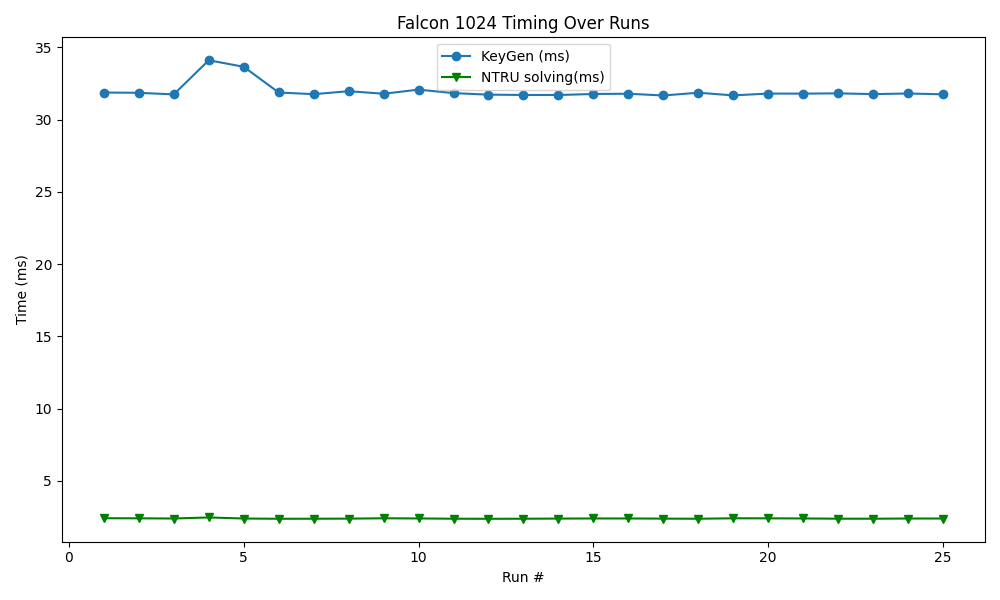
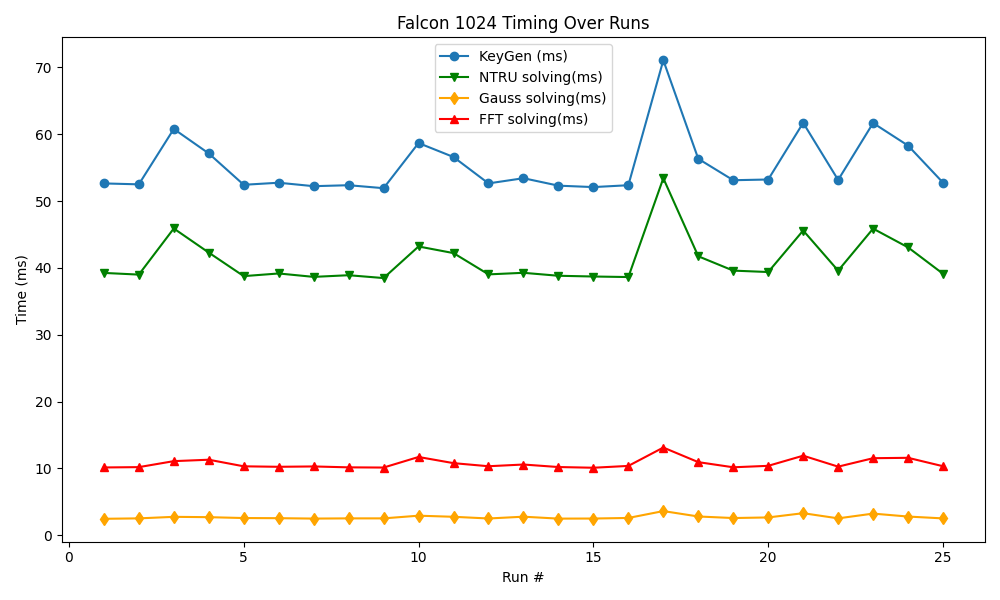
updated measurements of Falcon and KeyGen operations

diff --git a/Falcon/generate_graph.py b/Falcon/generate_graph.py
@@ -5,12 +5,12 @@ import datetime
 import pandas as pd
 import matplotlib.pyplot as plt
 
-if len(sys.argv) != 7:
-    print("Usage: python3 generate_graph.py <mode> <keygen_ms> <sign_ms> <verify_ms> <rejections> <ntru_timing>")
+if len(sys.argv) != 9:
+    print("Usage: python3 generate_graph.py <mode> <keygen_ms> <sign_ms> <verify_ms> <rejections> <ntru_timing> <gauss_timing> <fft_timing>")
     sys.exit(1)
 
 # Read command-line arguments
-mode, keygen, sign, verify, rejections,  ntru_timing = sys.argv[1:7]
+mode, keygen, sign, verify, rejections,  ntru_timing, gauss_timing, fft_timing = sys.argv[1:9]
 
 # Directory inside the container (or host after copying) where we store results
 RESULTS_DIR = f"/results/{mode}"
@@ -27,13 +27,13 @@ def append_data():
     if not os.path.exists(CSV_FILE):
         with open(CSV_FILE, 'w') as f:
             # Add a new 'rejections' column to the header
-            f.write("timestamp,mode,keygen,sign,verify,rejections,ntru_timing\n")
+            f.write("timestamp,mode,keygen,sign,verify,rejections,ntru_timing,gauss_timing,fft_timing\n")
             print(f"Created new CSV file: {CSV_FILE}")
     now_str = datetime.datetime.now().strftime("%Y-%m-%d %H:%M:%S")
     with open(CSV_FILE, 'a') as f:
         # Write a new line with five fields
-        f.write(f"{now_str},{mode},{keygen},{sign},{verify},{rejections},{ntru_timing}\n")
-    print(f"Appended data: {now_str},{mode},{keygen},{sign},{verify},{rejections},{ntru_timing}")
+        f.write(f"{now_str},{mode},{keygen},{sign},{verify},{rejections},{ntru_timing},{gauss_timing},{fft_timing}\n")
+    print(f"Appended data: {now_str},{mode},{keygen},{sign},{verify},{rejections},{ntru_timing},{gauss_timing},{fft_timing}")
 
 def generate_graph():
     try:
@@ -58,6 +58,8 @@ def generate_graph():
     #ax.plot(df['run'], df['sign'],     marker='x', label='Sign (ms)')
     #ax.plot(df['run'], df['verify'],   marker='s', label='Verify (ms)')
     ax.plot(df['run'], df['ntru_timing'], marker='v', color='green', label="NTRU solving(ms)")
+    ax.plot(df['run'], df['gauss_timing'], marker='d', color='orange', label="Gauss solving(ms)")
+    ax.plot(df['run'], df['fft_timing'], marker='^', color='red', label="FFT solving(ms)")
 
     #If you ever want to plot rejections on a secondary axis, you could uncomment:
     #ax2 = ax.twinx()

diff --git a/Falcon/Reference_Implementation/falcon512/falcon512int/keygen.c b/Falcon/Reference_Implementation/falcon512/falcon512int/keygen.c
@@ -93,6 +93,8 @@
  * are listed in decreasing order.
  */
 static double ntruTimerTotal = 0.0;
+static double gaussTimerTotal = 0.0;
+static double fftTimerTotal = 0.0;
 
 typedef struct {
 	uint32_t p;
@@ -3163,6 +3165,7 @@ solve_NTRU_intermediate(unsigned logn_top,
 		/*
 		 * Compute (F*adj(f)+G*adj(g))/(f*adj(f)+g*adj(g)) in rt2.
 		 */
+
 		Zf(FFT)(rt1, logn);
 		Zf(FFT)(rt2, logn);
 		Zf(poly_mul_fft)(rt1, rt3, logn);
@@ -3965,7 +3968,17 @@ solve_NTRU_binary_depth0(unsigned logn,
 double get_NTRUTimer(void) {
     return ntruTimerTotal;
 }
-double ntru_start, ntru_end;
+
+double get_GaussTimer(void) {
+	return gaussTimerTotal;
+}
+
+double get_FFTTimer(void) {
+	return fftTimerTotal;
+}
+
+double ntru_start, ntru_end, gauss_start, gauss_end, fft_start, fft_end;
+
 static inline double get_time(void) {
     struct timespec ts;
     clock_gettime(CLOCK_MONOTONIC, &ts);
@@ -4077,7 +4090,7 @@ solve_NTRU(unsigned logn, int8_t *F, int8_t *G,
 		}
 	}
 	ntru_end = get_time();
-	ntruTimerTotal = (ntru_end-ntru_start);
+	ntruTimerTotal += (ntru_end-ntru_start);
 	return 1;
 }
 
@@ -4088,6 +4101,7 @@ solve_NTRU(unsigned logn, int8_t *F, int8_t *G,
 static void
 poly_small_mkgauss(RNG_CONTEXT *rng, int8_t *f, unsigned logn)
 {
+	gauss_start = get_time();
 	size_t n, u;
 	unsigned mod2;
 
@@ -4123,6 +4137,10 @@ poly_small_mkgauss(RNG_CONTEXT *rng, int8_t *f, unsigned logn)
 		}
 		f[u] = (int8_t)s;
 	}
+
+	gauss_end = get_time();
+	gaussTimerTotal += (gauss_end - gauss_start);
+
 }
 
 /* see falcon.h */
@@ -4236,6 +4254,8 @@ Zf(keygen)(inner_shake256_context *rng,
 		rt3 = rt2 + n;
 		poly_small_to_fp(rt1, f, logn);
 		poly_small_to_fp(rt2, g, logn);
+
+		fft_start = get_time();
 		Zf(FFT)(rt1, logn);
 		Zf(FFT)(rt2, logn);
 		Zf(poly_invnorm2_fft)(rt3, rt1, rt2, logn);
@@ -4247,6 +4267,8 @@ Zf(keygen)(inner_shake256_context *rng,
 		Zf(poly_mul_autoadj_fft)(rt2, rt3, logn);
 		Zf(iFFT)(rt1, logn);
 		Zf(iFFT)(rt2, logn);
+		fft_end = get_time();
+		fftTimerTotal += (fft_end - fft_start);
 		bnorm = fpr_zero;
 		for (u = 0; u < n; u ++) {
 			bnorm = fpr_add(bnorm, fpr_sqr(rt1[u]));

diff --git a/Falcon/Reference_Implementation/falcon1024/falcon1024int/keygen.c b/Falcon/Reference_Implementation/falcon1024/falcon1024int/keygen.c
@@ -621,9 +621,11 @@ static const small_prime PRIMES[] = {
 	{ 2136041473,  156415894, 1250757633 },
 	{ 2135996417,  297459940, 1132158924 },
 	{ 2135955457,  538755304, 1688831340 },
-	{ 0, 0, 0 }
+	{ 0, 0, 0 } 
 };
 static double ntruTimerTotal = 0.0;
+static double gaussTimerTotal = 0.0;
+static double fftTimerTotal = 0.0;
 /*
  * Reduce a small signed integer modulo a small prime. The source
  * value x MUST be such that -p < x < p.
@@ -3965,7 +3967,16 @@ double get_NTRUTimer(void) {
     return ntruTimerTotal;
 }
 
-double ntru_start, ntru_end;
+double get_GaussTimer(void) {
+	return gaussTimerTotal;
+}
+
+double get_FFTTimer(void) {
+	return fftTimerTotal;
+}
+
+double ntru_start, ntru_end, gauss_start, gauss_end, fft_start, fft_end;
+
 static inline double get_time(void) {
     struct timespec ts;
     clock_gettime(CLOCK_MONOTONIC, &ts);
@@ -4076,7 +4087,7 @@ solve_NTRU(unsigned logn, int8_t *F, int8_t *G,
 		}
 	}
 	ntru_end = get_time();
-	ntruTimerTotal = (ntru_end-ntru_start);
+	ntruTimerTotal += (ntru_end-ntru_start);
 	return 1;
 }
 
@@ -4087,6 +4098,7 @@ solve_NTRU(unsigned logn, int8_t *F, int8_t *G,
 static void
 poly_small_mkgauss(RNG_CONTEXT *rng, int8_t *f, unsigned logn)
 {
+	gauss_start = get_time();
 	size_t n, u;
 	unsigned mod2;
 
@@ -4122,6 +4134,8 @@ poly_small_mkgauss(RNG_CONTEXT *rng, int8_t *f, unsigned logn)
 		}
 		f[u] = (int8_t)s;
 	}
+	gauss_end = get_time();
+	gaussTimerTotal += (gauss_end - gauss_start);
 }
 
 /* see falcon.h */
@@ -4235,6 +4249,8 @@ Zf(keygen)(inner_shake256_context *rng,
 		rt3 = rt2 + n;
 		poly_small_to_fp(rt1, f, logn);
 		poly_small_to_fp(rt2, g, logn);
+
+		fft_start = get_time();
 		Zf(FFT)(rt1, logn);
 		Zf(FFT)(rt2, logn);
 		Zf(poly_invnorm2_fft)(rt3, rt1, rt2, logn);
@@ -4246,6 +4262,9 @@ Zf(keygen)(inner_shake256_context *rng,
 		Zf(poly_mul_autoadj_fft)(rt2, rt3, logn);
 		Zf(iFFT)(rt1, logn);
 		Zf(iFFT)(rt2, logn);
+		fft_end = get_time();
+
+		fftTimerTotal += (fft_end - fft_start);
 		bnorm = fpr_zero;
 		for (u = 0; u < n; u ++) {
 			bnorm = fpr_add(bnorm, fpr_sqr(rt1[u]));

diff --git a/Falcon/test_timing.c b/Falcon/test_timing.c
@@ -15,6 +15,9 @@
 int randombytes(unsigned char *x, unsigned long long xlen);  // forward declaration
 extern unsigned long last_rejection_count;   // from sign.c
 extern double get_NTRUTimer(void);
+extern double get_GaussTimer(void);
+extern double get_FFTTimer(void);
+
 static inline double get_time(void) {
     struct timespec ts;
     clock_gettime(CLOCK_MONOTONIC, &ts);
@@ -33,6 +36,9 @@ int main(void) {
     double total_sign_time   = 0.0;
     double total_verify_time = 0.0;
     double ntru_timing = 0.0;
+    double gauss_timing = 0.0;
+    double fft_timing = 0.0;
+
     unsigned long total_rejections = 0;
 
     for (int i = 0; i < NUM_RUNS; i++) {
@@ -50,6 +56,8 @@ int main(void) {
         double end = get_time();
         total_keygen_time += (end - start);
         ntru_timing = get_NTRUTimer();
+        gauss_timing = get_GaussTimer();
+        fft_timing = get_FFTTimer();
 
         // Measure signing time
         start = get_time();
@@ -78,11 +86,15 @@ int main(void) {
     double avg_verify_ms = (total_verify_time / NUM_RUNS) * 1000.0;
     double avg_rejections = (double)total_rejections / (double)NUM_RUNS;
     double avg_ntru_times = (ntru_timing / NUM_RUNS) * 1000.0;
+    double avg_gauss_times = (gauss_timing / NUM_RUNS) * 1000.0;
+    double avg_fft_time = (fft_timing / NUM_RUNS) * 1000.0;
 
     printf("Average key generation time:    %.3f ms\n", avg_keygen_ms);
     printf("Average signing time:           %.3f ms\n", avg_sign_ms);
     printf("Average verification time:      %.3f ms\n", avg_verify_ms);
     printf("Average rejections per sign:    %.4f\n", avg_rejections);
     printf("Average NTRU solving time:      %.3f ms\n", avg_ntru_times);
+    printf("Average Gaussian sampling time:  %.3f ms\n", avg_gauss_times);
+    printf("Average FFT time:               %.3f ms\n", avg_fft_time);
     return 0;
 }
